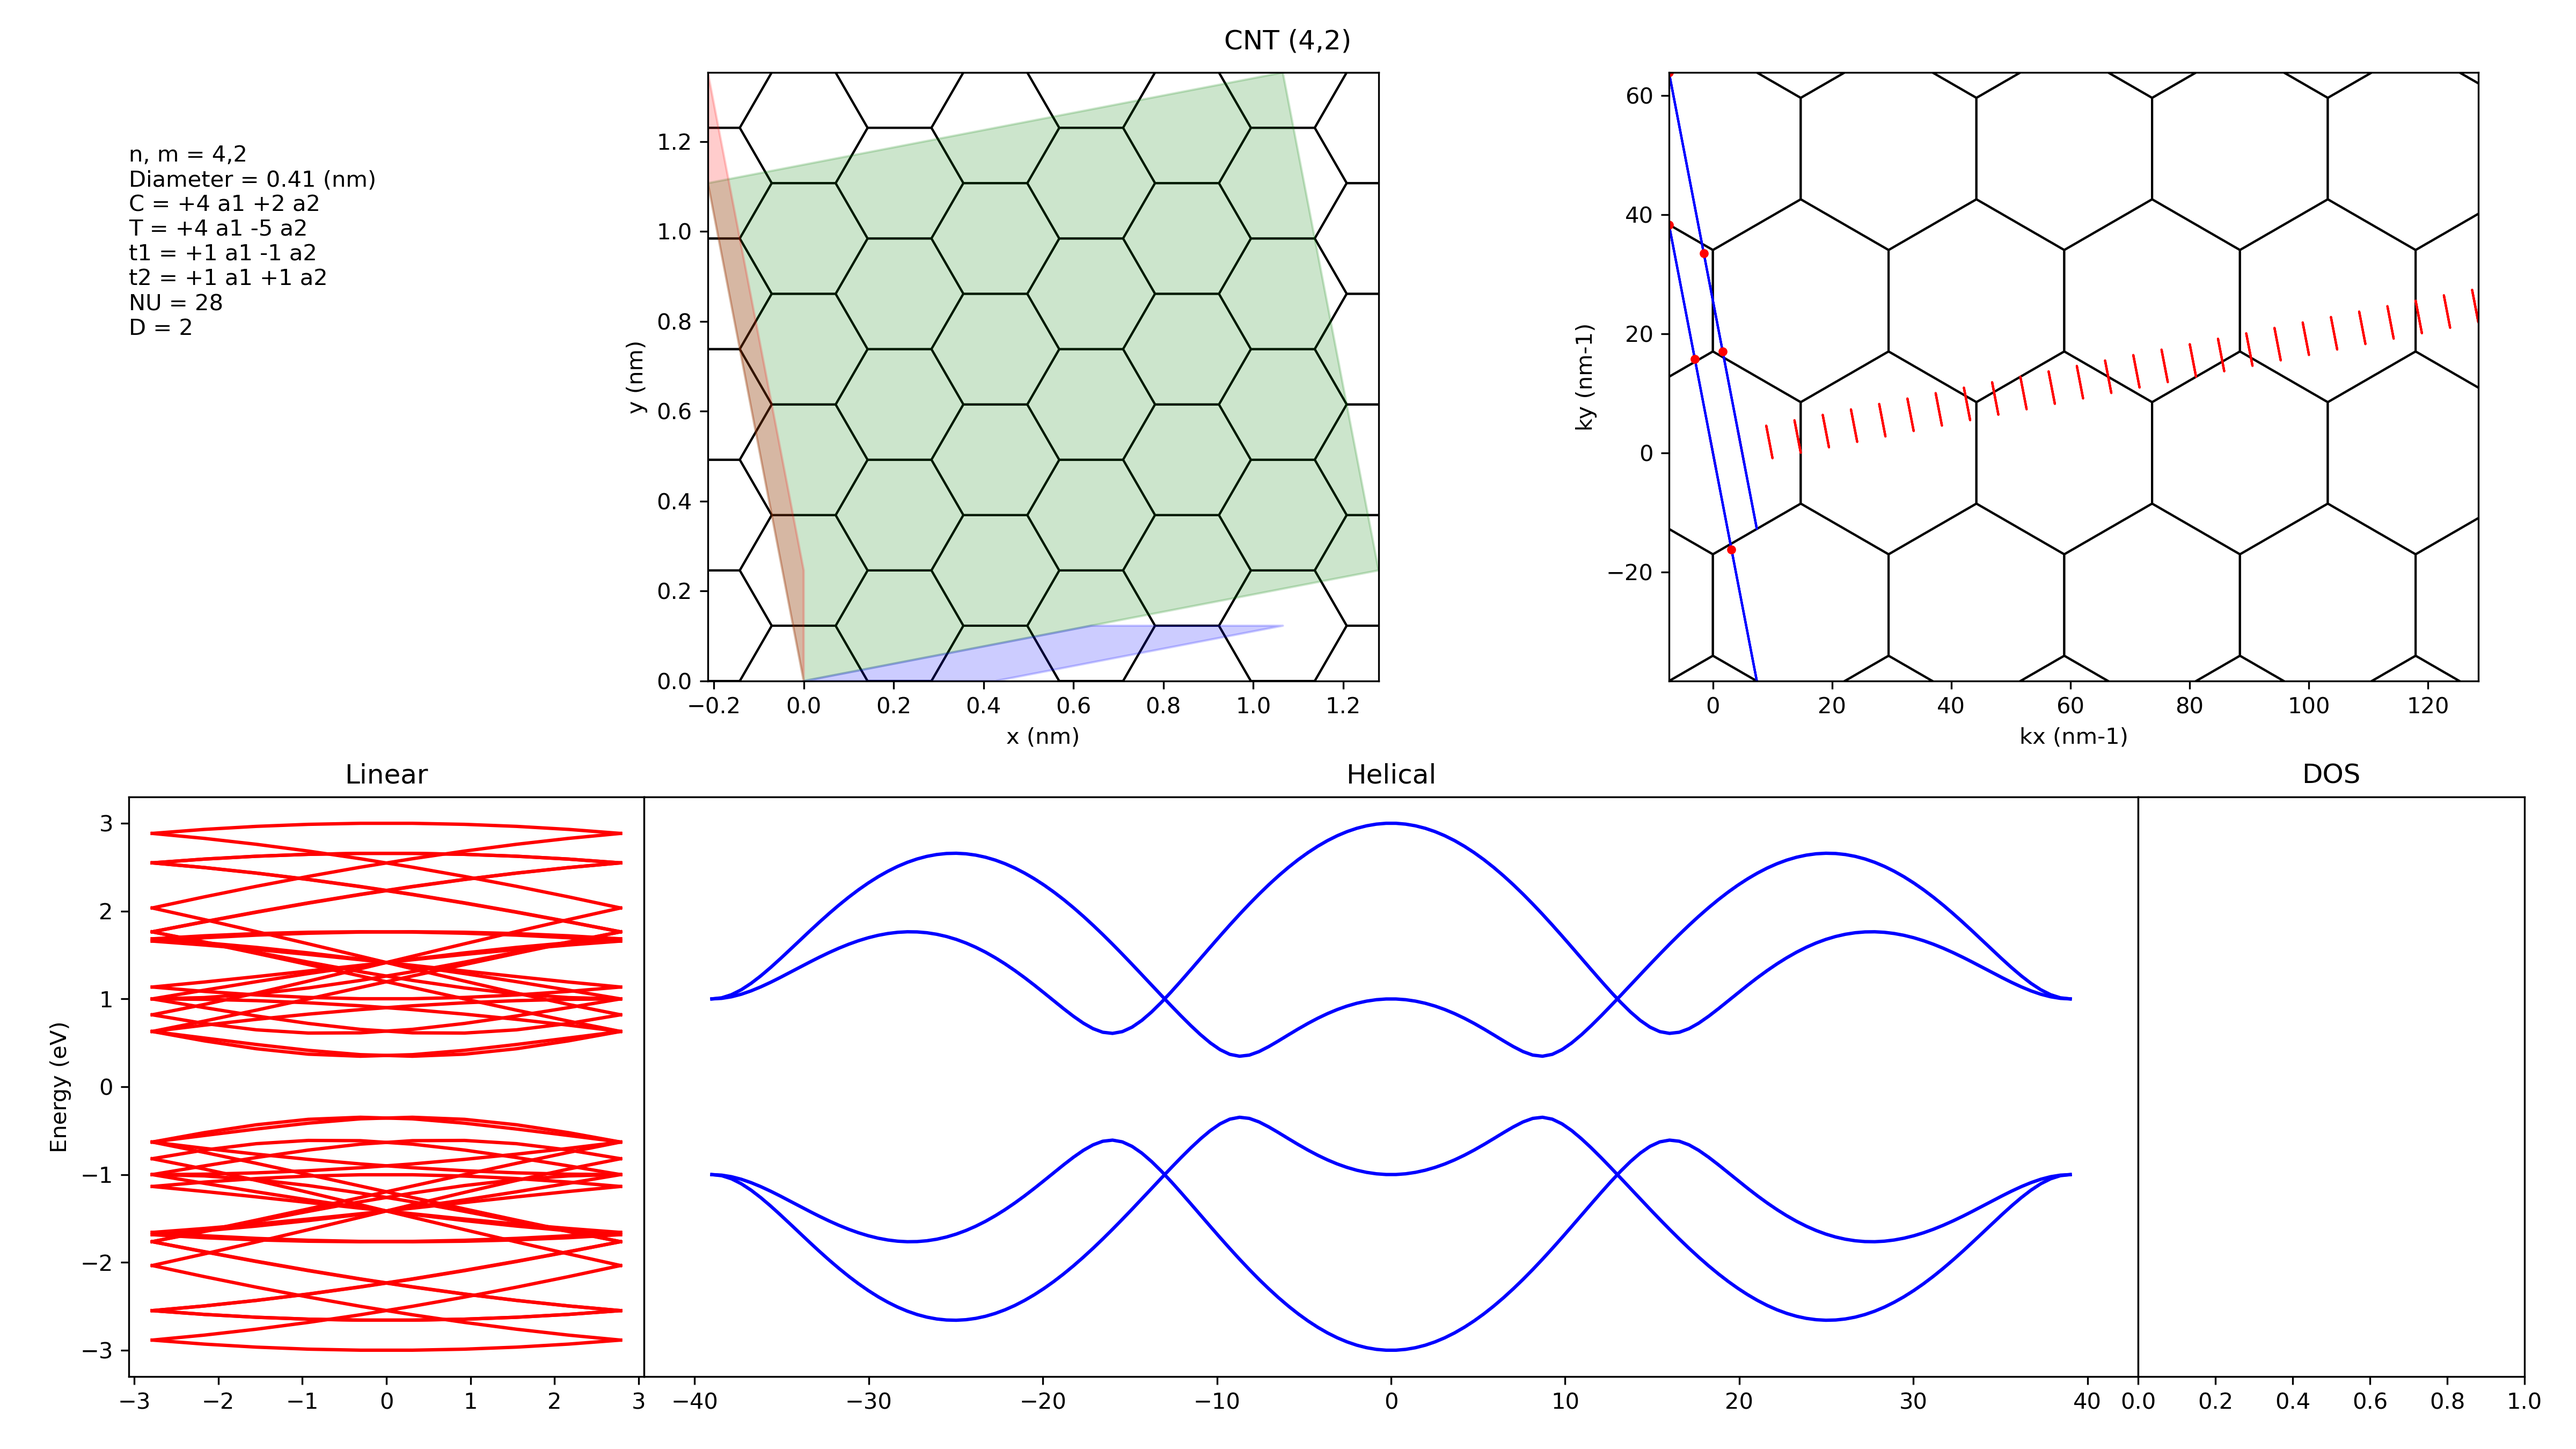
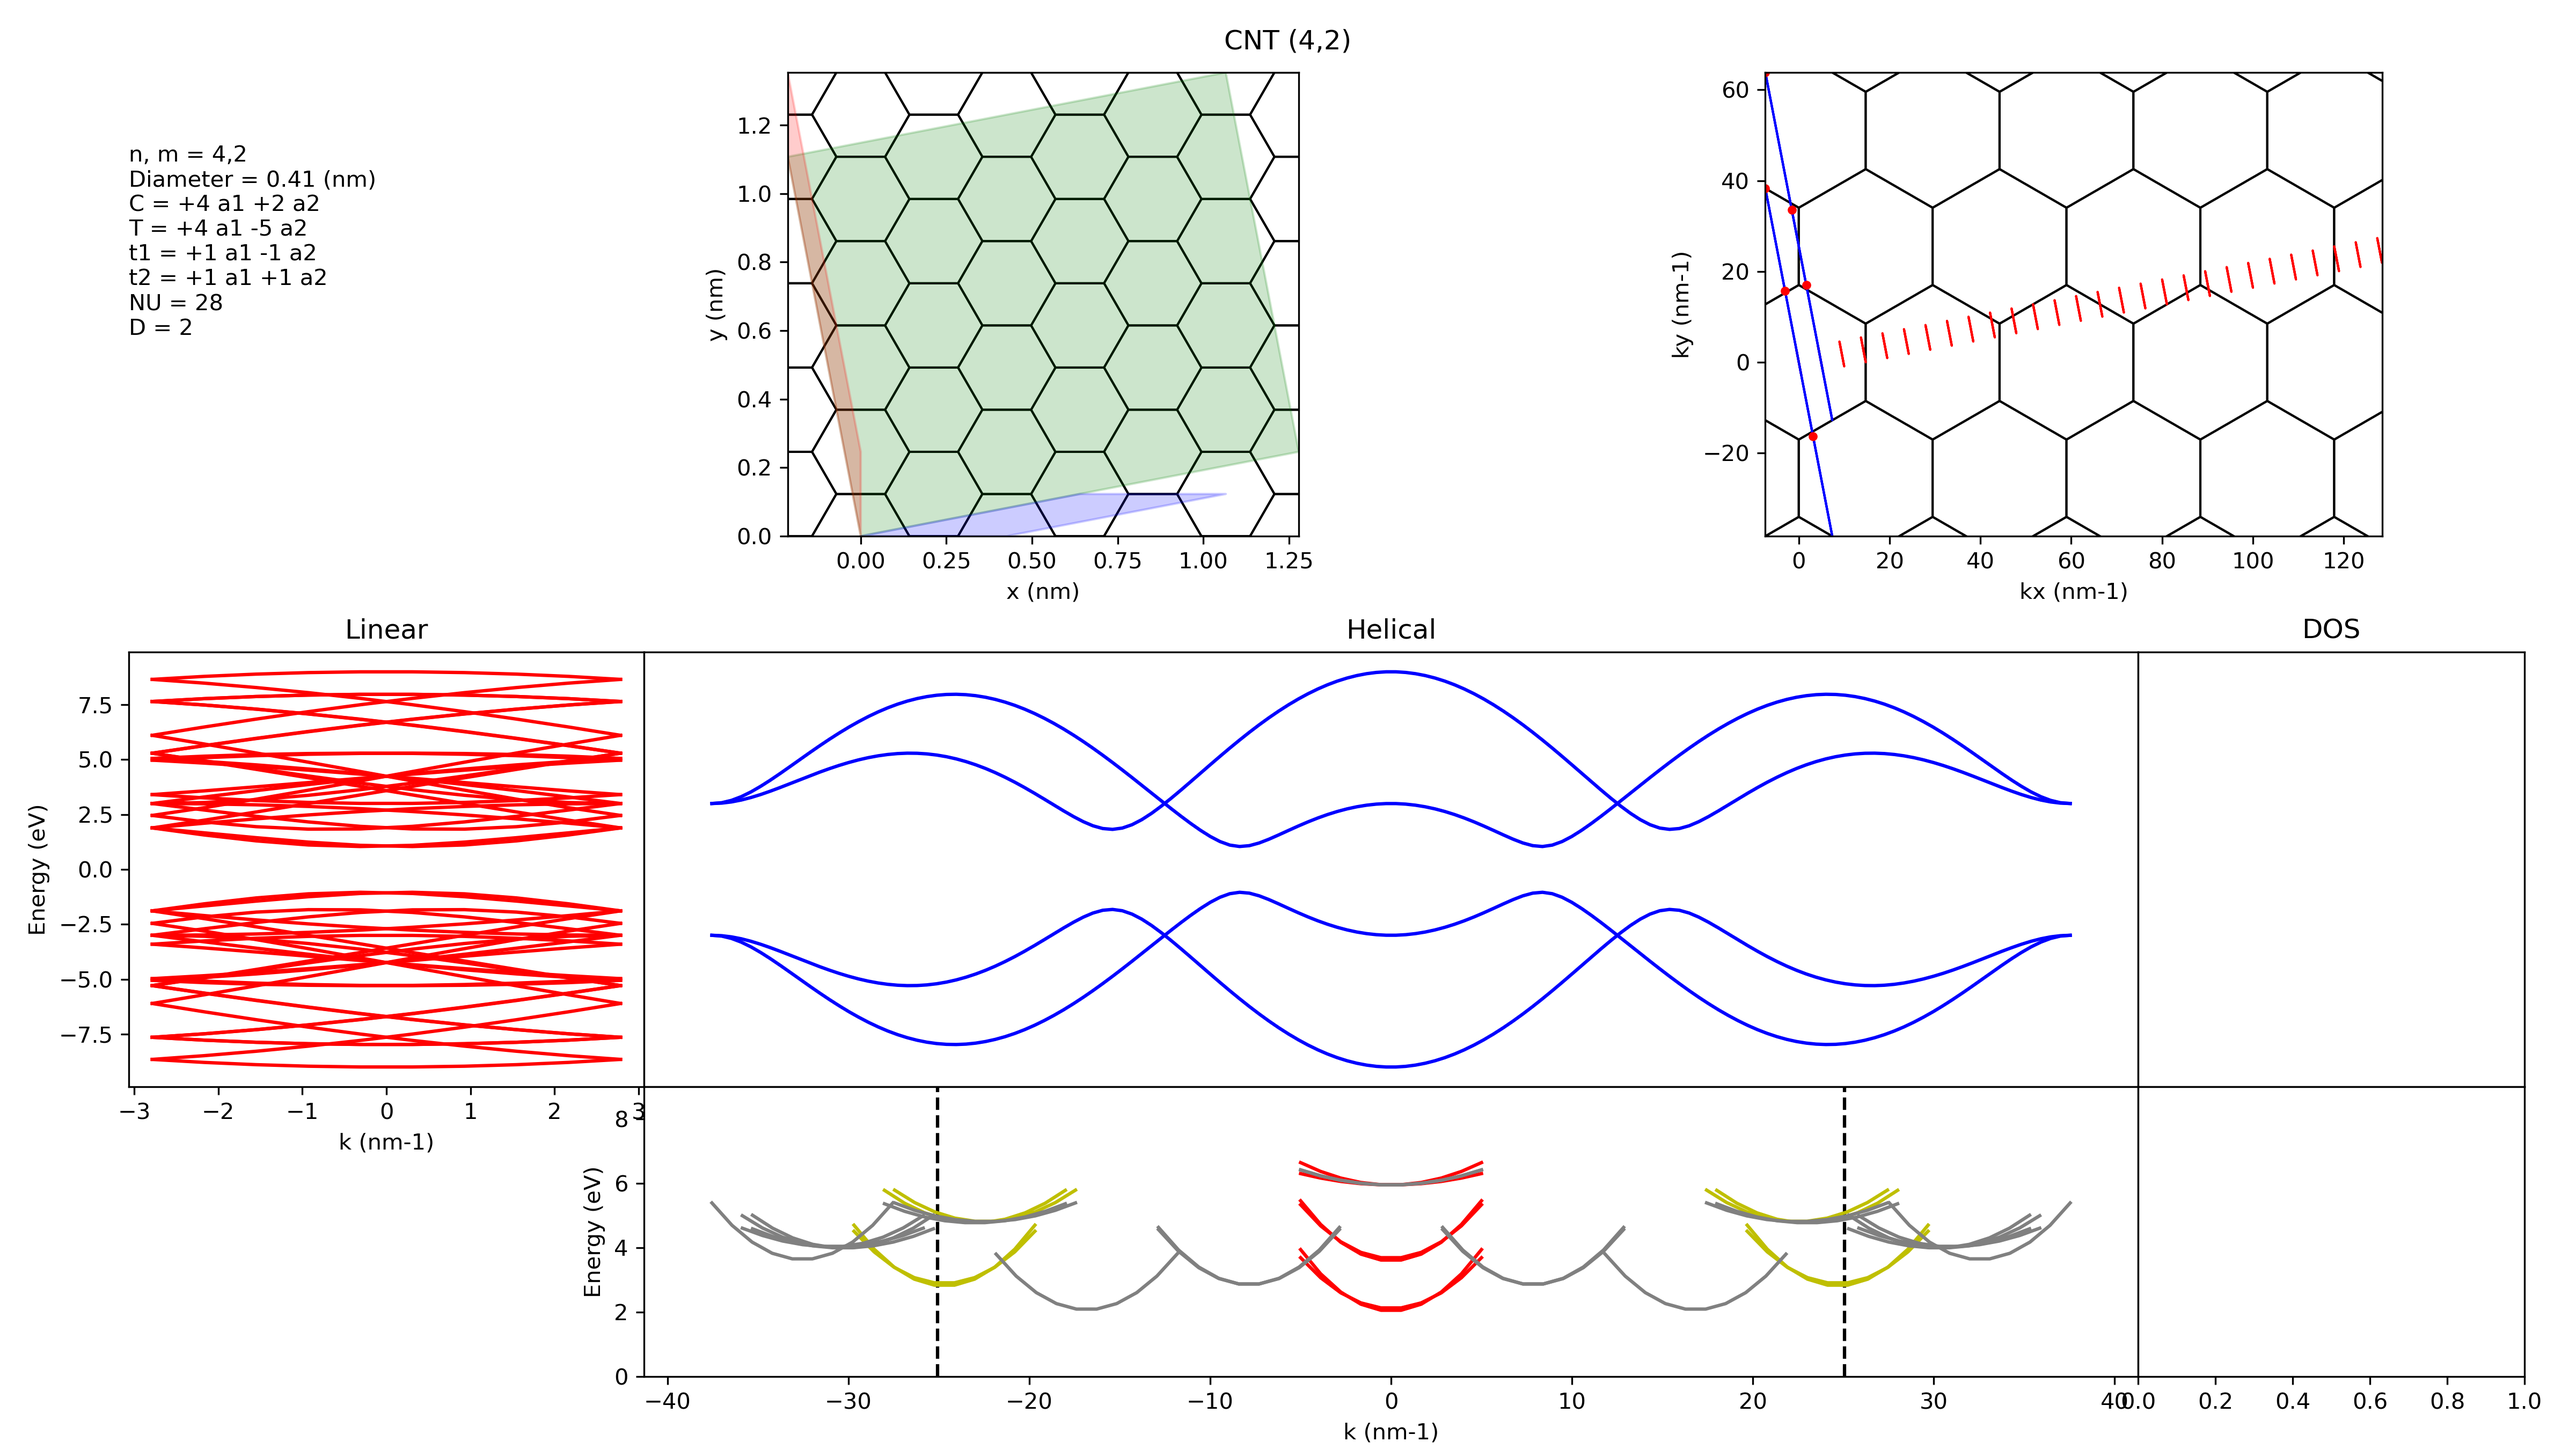
improved plot

diff --git a/swcnt/swcnt.py b/swcnt/swcnt.py
@@ -74,8 +74,10 @@ class Swcnt(object):
         kstepsHel = int(self.normHel / self.normLin * kstepsLin)
         self.bzLin, self.bzCutsLin, self.bandLin = utils.subBands(self.KT, self.KC, self.a1, self.a2, self.NU, kstepsLin)
         self.bzHel, self.bzCutsHel, self.bandHel = utils.subBands(self.k2H, self.k1H / self.D, self.a1, self.a2, self.D, kstepsHel)
+        self.bandLin = self.bandLin * self.gamma
+        self.bandHel = self.bandHel * self.gamma
 
-    def calculateExcitonBands(self, bindEnergy = 0.05, deltak = 10.0, kstep = 10):
+    def calculateExcitonBands(self, bindEnergy = 0.05, deltak = 10.0, kstep = 20):
         # CNT band minima, energies and masses
         self.bandMinHel = []
         self.bandMinXy = []
@@ -140,28 +142,19 @@ class Swcnt(object):
             path = os.path.join(dirpath, f"excDark{k}.txt")
             utils.save_file(*self.excDarkBands[k], path=path)
 
-    def plotExcitons(self):
-        for k in self.excParaBands:
-            plt.plot(*self.excParaBands[k],'r')
-        for k in self.excPerpBands:
-            plt.plot(*self.excPerpBands[k],'y')
-        for k in self.excDarkBands:
-            plt.plot(*self.excDarkBands[k],'grey')
-        plt.vlines(self.normOrt,0,3,linestyles ="dashed", colors ="k")
-        plt.vlines(-self.normOrt,0,3,linestyles ="dashed", colors ="k")
-        plt.ylim(0, 3)
-        plt.show()
-
     def textParams(self):
         text = (
             f"n, m = {self.n},{self.m}\n"
-            f"Diameter = {np.linalg.norm(self.C)/np.pi:.2f} (nm)\n"
+            f"Diameter = {np.linalg.norm(self.C)/np.pi:.2f} nm\n"
             f"C = {self.n:+d} a1 {self.m:+d} a2\n"
             f"T = {self.p:+d} a1 {self.q:+d} a2\n"
             f"t1 = {self.u1:+d} a1 {self.v1:+d} a2\n"
             f"t2 = {self.u2:+d} a1 {self.v2:+d} a2\n"
             f"NU = {self.NU}\n"
-            f"D = {self.D}"
+            f"D = {self.D}\n"
+            f"BZ_lin = {self.normLin:.2f} nm-1\n"
+            f"BZ_hel = {self.normHel:.2f} nm-1\n"
+            f"K_ort = {self.normOrt:.2f} nm-1"
         )
         return text
 
@@ -171,16 +164,21 @@ class Swcnt(object):
         else:
             fig = plt.figure(figsize=(16, 9), dpi=300)
 
+        # figure and axes
         fig.suptitle(f"CNT ({self.n},{self.m})")
-        ax1 = fig.add_axes([0.23, 0.53, 0.35, 0.42])
-        ax2 = fig.add_axes([0.63, 0.53, 0.35, 0.42])
-        ax3 = fig.add_axes([0.05, 0.05, 0.2, 0.4])
-        ax4 = fig.add_axes([0.25, 0.05, 0.58, 0.4])
-        ax5 = fig.add_axes([0.83, 0.05, 0.15, 0.4])
+        ax1 = fig.add_axes([0.23, 0.63, 0.35, 0.32])
+        ax2 = fig.add_axes([0.63, 0.63, 0.35, 0.32])
+        ax3 = fig.add_axes([0.05, 0.25, 0.2, 0.3])
+        ax4 = fig.add_axes([0.25, 0.25, 0.58, 0.3])
+        ax5 = fig.add_axes([0.83, 0.25, 0.15, 0.3])
+        ax6 = fig.add_axes([0.25, 0.05, 0.58, 0.2])
+        ax7 = fig.add_axes([0.83, 0.05, 0.15, 0.2])
+
+        # -------------------------------------------------------
+        # ax1 and ax2 (unit cell and BZ)
         ax1.set_aspect("equal")
         ax2.set_aspect("equal")
-        minx, maxx, miny, maxy = utils.boundingRectangle(
-            self.C, self.T, self.C + self.T, self.t1, self.t1 + self.T, self.t2, self.t2 + self.C / self.D,)
+        minx, maxx, miny, maxy = utils.boundingRectangle(self.C, self.T, self.C + self.T, self.t1, self.t1 + self.T, self.t2, self.t2 + self.C / self.D,)
         hexDir = utils.hexPatches(minx, maxx, miny, maxy, self.a0, lat="dir")
         ax1.set_xlim(minx, maxx)
         ax1.set_ylim(miny, maxy)
@@ -197,29 +195,22 @@ class Swcnt(object):
         hexRec = utils.hexPatches(minx, maxx, miny, maxy, self.b0, lat="rec")
         ax2.set_xlim(minx, maxx)
         ax2.set_ylim(miny, maxy)
-        # labels
-        ax1.set_xlabel("x (nm)")
-        ax1.set_ylabel("y (nm)")
-        ax2.set_xlabel("kx (nm-1)")
-        ax2.set_ylabel("ky (nm-1)")
-        ax3.set_title("Linear")
-        ax3.set_ylabel("Energy (eV)")
-        ax4.set_title("Helical")
-        ax5.set_title("DOS")
-        ax4.set_yticks([])
-        ax5.set_yticks([])
-        plt.text(0.05, 0.9, self.textParams(), ha="left", va="top", transform=fig.transFigure)
 
-        # plot unic cells
+        # create unit cells vectors
+        dirVectors = utils.arrowPatches(self.C, self.T, self.t1, self.t2, color='grey')
+        #recVectors = utils.arrowPatches(self.k1L, self.k2L, self.k1H, self.k2H, color='grey')
+
         unitCell_la = np.array([[0.0, 0.0], self.C, self.C + self.T, self.T])
         unitCell_lh = np.array([[0.0, 0.0], self.t1, self.t1 + self.T, self.T])
         unitCell_ha = np.array([[0.0, 0.0], self.C / self.D, self.C / self.D + self.t2, self.t2])
         cells = utils.cellPatches([unitCell_la, unitCell_ha, unitCell_lh], ["g", "b", "r"])
 
-        # plot hexagons
+        # plot hexagons and unit cells
         ax1.add_collection(hexDir)
         ax2.add_collection(hexRec)
         ax1.add_collection(cells)
+        ax1.add_collection(dirVectors)
+        #ax2.add_collection(recVectors)
 
         # plot cutting lines
         lines = utils.linePatches(
@@ -243,17 +234,74 @@ class Swcnt(object):
         for mu in range(0, self.D):
             ax2.plot(*self.bandMinXy[mu].T, "r.")
 
-        # plot bands
+        # -------------------------------------------------
+        # ax3 ax4 plot subbands
         for mu in range(0, self.NU):
             ax3.plot(self.bzLin, self.bandLin[mu], "r")
             ax3.plot(self.bzLin, -self.bandLin[mu], "r")
         for mu in range(0, self.D):
             ax4.plot(self.bzHel, self.bandHel[mu],'b')
             ax4.plot(self.bzHel, -self.bandHel[mu],'b')
-        mine, maxe = np.min(-self.bandHel), np.max(self.bandHel)
-        for ax in [ax3, ax4, ax5]:
-            ax.set_ylim(1.1 * mine, 1.1 * maxe)
+        
+        # ax6 plot excitons
+        for i,k in enumerate(self.excParaBands):
+            if i == 0:
+                label='Para'
+            else:
+                label='_'
+            ax6.plot(*self.excParaBands[k],'r', label=label)
+        for i,k in enumerate(self.excPerpBands):
+            if i == 0:
+                label='Perp'
+            else:
+                label='_'
+            ax6.plot(*self.excPerpBands[k],'y', label=label)
+        for i,k in enumerate(self.excDarkBands):
+            if i == 0:
+                label='Dark'
+            else:
+                label='_'
+            ax6.plot(*self.excDarkBands[k],'grey', label=label)
 
+        # ax5 ax7 plot DOS and absorption
+        # todo
+
+        # -------------------------------------------------
+        # labels, ticks, range, grids, legends, texts
+        ax1.set_xlabel("x (nm)")
+        ax1.set_ylabel("y (nm)")
+        ax2.set_xlabel("kx (nm-1)")
+        ax2.set_ylabel("ky (nm-1)")
+        ax3.set_title("Linear")
+        ax3.set_ylabel("Energy (eV)")
+        ax3.set_xlabel("k (nm-1)")
+        ax4.set_title("Helical")
+        ax5.set_title("DOS")
+        ax6.set_ylabel("Energy (eV)")
+        ax6.set_xlabel("k (nm-1)")
+        ax4.set_yticklabels([])
+        ax5.set_yticklabels([])
+        ax4.set_xticklabels([])
+        ax5.set_xticklabels([])
+        ax7.set_yticklabels([])
+        plt.text(0.05, 0.9, self.textParams(), ha="left", va="top", transform=fig.transFigure)
+
+        minElEn, maxElEn = 1.1 * np.min(-self.bandHel), 1.1 * np.max(self.bandHel)
+        minBzHel, maxBzHel = 1.1 * np.min(self.bzHel), 1.1 * np.max(self.bzHel)
+        for ax in [ax4, ax6]:
+            ax.set_xlim(minBzHel, maxBzHel)
+            ax.locator_params(axis='x', nbins=20)
+        for ax in [ax3, ax4, ax5]:
+            ax.set_ylim(minElEn, maxElEn)
+            ax.locator_params(axis='y', nbins=10)
+        for ax in [ax3, ax4, ax5, ax6, ax7]:    
+            ax.grid(linestyle='--')
+
+        ax6.vlines(self.normOrt,0,6,linestyles ="dashed", colors ="k")
+        ax6.vlines(-self.normOrt,0,6,linestyles ="dashed", colors ="k")
+        ax6.legend(loc=(-0.2, 0.0))
+
+        # save or plot
         if path == None:
             plt.show()
         else:

diff --git a/swcnt/utils.py b/swcnt/utils.py
@@ -56,6 +56,14 @@ def boundingRectangle(*args):
     return minx, maxx, miny, maxy
 
 
+def arrowPatches(*vec,color):
+    patches = []
+    for v in vec:
+        arrow = mpatches.FancyArrow(0,0,v[0],v[1], width=0.005, length_includes_head=True, color=color)
+        #ax.add_patch(arrow)
+        patches.append(arrow)
+    return PatchCollection(patches, match_original=True)
+
 def cellPatches(cells, colors):
     patches = []
     for aux, c in zip(cells, colors):
@@ -118,9 +126,9 @@ def minVector2AtomUnitCell(l, k, n):
             return u, int(v)
 
 
-def bands(k, a1, a2, gamma=1.0):
+def bands(k, a1, a2):
     band = np.sqrt(3 + 2 * np.cos(np.dot(k, a1)) + 2 * np.cos(np.dot(k, a2)) + 2 * np.cos(np.dot(k, (a2 - a1))))
-    return gamma * band
+    return band
 
 
 def opt_mat_elems(k, a1, a2, n, m):

diff --git a/swcnt/main.py b/swcnt/main.py
@@ -40,8 +40,3 @@ def main():
         cnt.saveData(OUT_DIR)
     else:
         cnt.plot()
-        cnt.plotExcitons()
-
-    # for vec in [C,T,t1,t2,k1H,k2H]:
-    #     arrow = mpatches.FancyArrow(0,0,vec[0],vec[1], width=0.005, length_includes_head=True, color='red')
-    #     ax.add_patch(arrow)
